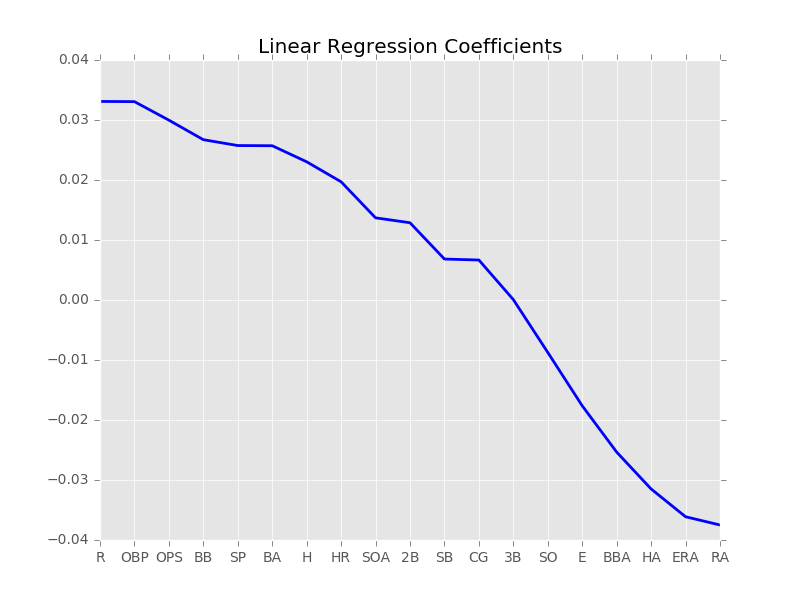
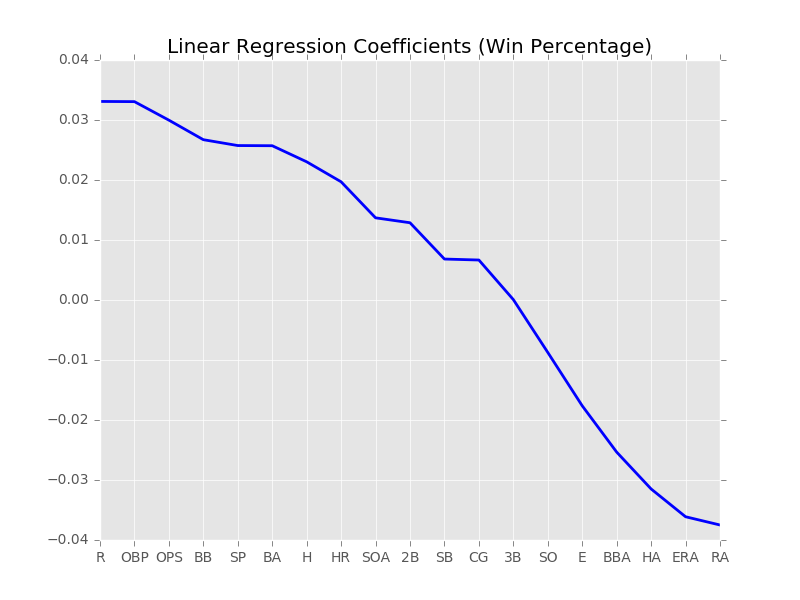
updated wins histogram

Changed region(s): [[0.2188, 0.06, 0.8125, 0.09]]

diff --git a/baseball.py b/baseball.py
@@ -46,7 +46,7 @@ def rfregress(X_train, X_test, y_train, y_test):
     x = range(len(nos))
     plt.plot(x[:-1],nos[:-1], lw=2)
     plt.xticks(x[:-1], labs[:-1])
-    plt.title('Random Forest Feature Importance')
+    plt.title('Random Forest Feature Importance (Win Percentage)')
     plt.savefig('images/feature_importances.png')
     plt.show()
     print labs
@@ -74,7 +74,7 @@ def linregress(X_train, X_test, y_train, y_test):
     x = range(len(nos))
     plt.plot(x,nos, lw=2, c='b')
     plt.xticks(x, labs)
-    plt.title('Linear Regression Coefficients')
+    plt.title('Linear Regression Coefficients (Win Percentage)')
     plt.savefig('images/coefficients.png')
     plt.show()
     print labs
@@ -93,9 +93,9 @@ def linregress(X_train, X_test, y_train, y_test):
 #     print np.array(sorted(scores, key=lambda x: x[2]))
 
 def plot_wins_histo():
-    plt.hist(y)
-    plt.title('Winning Percentage Histogram')
-    plt.savefig('images/winshisto.png')
+    plt.hist(teams['Wins'])
+    plt.title('Wins Histogram')
+    plt.savefig('images/winshisto2.png')
     plt.show()
 
 def plots(x, y, x_lab, y_lab):
@@ -114,4 +114,4 @@ if __name__ == '__main__':
     # regress(X_train, X_test, y_train, y_test)
     # rfregress(X_train, X_test, y_train, y_test)
     # plot_wins_histo()
-    linregress(X_train, X_test, y_train, y_test)
+    # linregress(X_train, X_test, y_train, y_test)

diff --git a/preprocessing.py b/preprocessing.py
@@ -29,8 +29,10 @@ def teams_pp(teams_df, trash=[]):
     teams_df['obp'] = (teams_df['h'] + teams_df['bb']) / (teams_df['ab'] + teams_df['bb']) #on base percentage
     teams_df['sp'] = (teams_df['1b'] + (teams_df['2b'] * 2) + (teams_df['3b'] * 3) + (teams_df['hr'] * 4)) / teams_df['ab']  #slugging percentage
     teams_df['ops'] = teams_df['obp'] + teams_df['sp'] #on base percentage plus slugging percentage
+    teams_df['Wins'] = teams_df['w']
     teams = get_rates(teams_df, teams_to_rate)
     teams = teams[teams['yearid'] > 1980]
+    teams = teams[teams['yearid'] != 1994]
     return teams
 
 # teams_df haven't always played the same number of games each year
